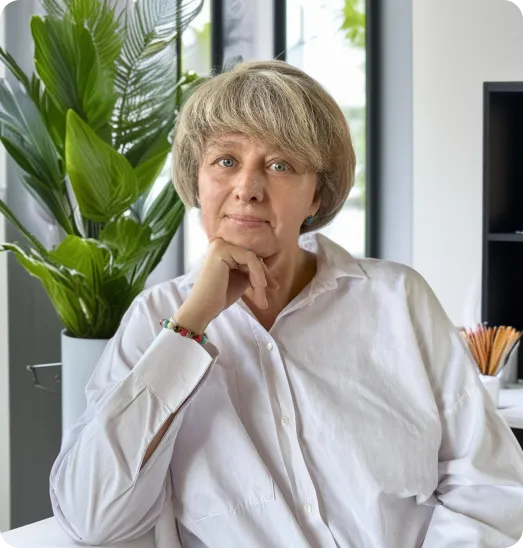
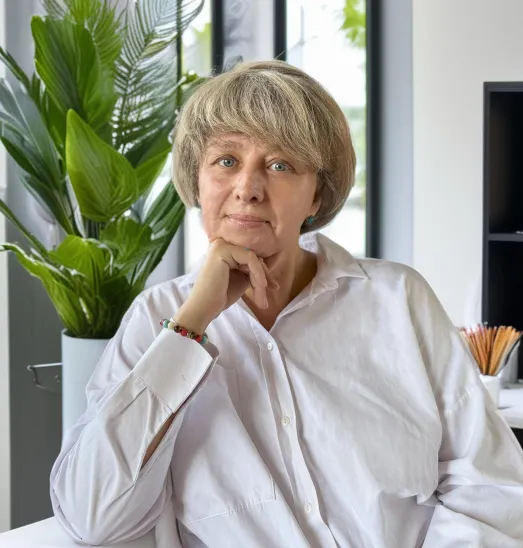
замена фото в hero. Исправлен хэдер fixed и пр.

diff --git a/css/main.css b/css/main.css
@@ -224,8 +224,9 @@ h4 {
 
 .header {
   width: 100%;
-  position: relative;
-  z-index: 100; }
+  position: fixed;
+  z-index: 100;
+  background: #FFF6F6; }
 
 .header__container {
   display: flex;
@@ -250,7 +251,7 @@ h4 {
   display: flex;
   align-items: flex-start;
   gap: 10px;
-  margin-right: 2%; }
+  margin-right: 10%; }
   .header__adress__icon {
     width: 20px; }
   .header__adress__wr__textBold {
@@ -318,13 +319,14 @@ h4 {
   background: #fff;
   box-shadow: 0 5px 15px rgba(0, 0, 0, 0.1);
   transition: max-height 0.5s ease, opacity 0.3s ease;
-  opacity: 0;
+  display: none;
   z-index: 1000;
   border-radius: 9px;
   padding: 60px; }
   .mobile-menu.active {
     max-height: 500px;
-    opacity: 1; }
+    opacity: 1;
+    display: block; }
 
 /* Стили содержимого меню */
 .mobile-menu .nav__list {
@@ -355,7 +357,8 @@ h4 {
 
 .start {
   position: relative;
-  background-color: #ffffff; }
+  background-color: #ffffff;
+  padding-top: 67px; }
   .start__container {
     position: relative;
     max-width: 1400px;
@@ -642,9 +645,13 @@ br.mobile-only {
     color: #7d7b7b; }
   .hero__info__text__greeting {
     font-weight: 400;
+    font-size: 16px;
     color: #7d7b7b;
     margin-top: 36px;
     hyphens: auto; }
+  .hero__info__img img {
+    border-radius: 10px;
+    max-width: 523px; }
   .hero__info__eng {
     font-family: "Cactus";
     font-size: 128px;
@@ -666,8 +673,11 @@ br.mobile-only {
 
 .floatImg {
   float: left;
-  width: 200px;
   margin: 0 15px 15px 0; }
+
+.floatImg img {
+  max-height: 237px;
+  border-radius: 10px; }
 
 .help__container {
   max-width: 100%;
@@ -685,7 +695,8 @@ br.mobile-only {
 
 .help__text {
   max-width: 1400px;
-  padding: 64px 652px 184px 169px; }
+  padding: 64px 652px 184px 169px;
+  z-index: 5; }
   .help__text__p {
     color: #ffffff;
     line-height: 140%;
@@ -1297,6 +1308,14 @@ br.mobile-only {
 
   .hero__info__eng {
     left: 3%; }
+
+  .hero__info__text__greeting {
+    font-size: 18px; }
+
+  .floatImg {
+    margin: 0;
+    width: 300px;
+    height: auto; }
 
   .price__info__btn__arr__el__item {
     width: 160px; }

diff --git a/index.html b/index.html
@@ -362,7 +362,7 @@
                 процедурам. <br /><br />
               </p>
               <div class="floatImg">
-                <img src="./img/heroTravel.webp" alt="женщина путешествует" />
+                <img src="./img/Hero.png" alt="Полина на конференции Аравиа в Египте" />
               </div>
               <p class="hero__info__text__greeting">
                 <br />
@@ -373,7 +373,7 @@
               </p>
             </div>
             <div class="hero__info__img">
-              <img src="./img/hero.webp" alt="hero foto" />
+              <img src="./img/conferention.png" alt="hero foto" />
             </div>
             <p class="hero__info__eng">
               <span class="hero__info__eng__name">POLINA </span>

diff --git a/css/header.scss b/css/header.scss
@@ -1,7 +1,8 @@
 .header {
   width: 100%;
-  position: relative;
+  position: fixed;
   z-index: 100;
+  background: #FFF6F6;
 }
 
 .header__container {
@@ -30,7 +31,7 @@
   display: flex;
   align-items: flex-start;
   gap: 10px;
-  margin-right: 2%;
+  margin-right: 10%;
   &__icon {
     width: 20px;
   }
@@ -119,7 +120,8 @@
   background: #fff;
   box-shadow: 0 5px 15px rgba(0, 0, 0, 0.1);
   transition: max-height 0.5s ease, opacity 0.3s ease;
-  opacity: 0;
+  // opacity: 0;
+  display: none;
   z-index: 1000;
   border-radius: 9px;
   padding: 60px;
@@ -127,6 +129,8 @@
   &.active {
     max-height: 500px;
     opacity: 1;
+    display: block;
+    
   }
 }
 

diff --git a/css/hero.scss b/css/hero.scss
@@ -17,10 +17,15 @@
     }
     &__greeting {
       font-weight: 400;
+      font-size: 16px;
       color: #7d7b7b;
       margin-top: 36px;
       hyphens: auto;
     }
+  }
+  &__img img{
+    border-radius: 10px;
+    max-width: 523px;
   }
   &__eng {
     font-family: "Cactus";
@@ -48,6 +53,10 @@
 
 .floatImg {
   float: left;
-  width: 200px;
+  // width: 200px;
   margin: 0 15px 15px 0;
+}
+.floatImg img{
+    max-height: 237px;
+    border-radius: 10px;
 }

diff --git a/css/start.scss b/css/start.scss
@@ -1,6 +1,7 @@
 .start {
   position: relative; // Добавляем для корректного позиционирования дочерних элементов
   background-color: #ffffff;
+  padding-top: 67px;
   // overflow: hidden; // Обрезаем всё, что выходит за пределы секции
 
   &__container {

diff --git a/css/media.scss b/css/media.scss
@@ -86,6 +86,14 @@
   .hero__info__eng {
     left: 3%;
   }
+  .hero__info__text__greeting {
+    font-size: 18px;
+  }
+  .floatImg {
+    margin: 0;
+    width: 300px;
+    height: auto;
+  }
   // .hero__info__eng {
   //   font-size: 90px;
   //   left: 15%;

diff --git a/css/help.scss b/css/help.scss
@@ -15,6 +15,7 @@
 .help__text {
   max-width: 1400px;
   padding: 64px 652px 184px 169px;
+  z-index: 5;
   &__p {
     color: #ffffff;
     line-height: 140%;
